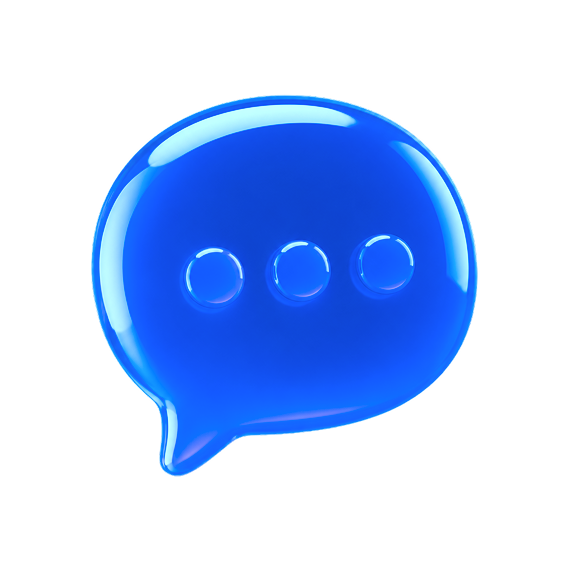
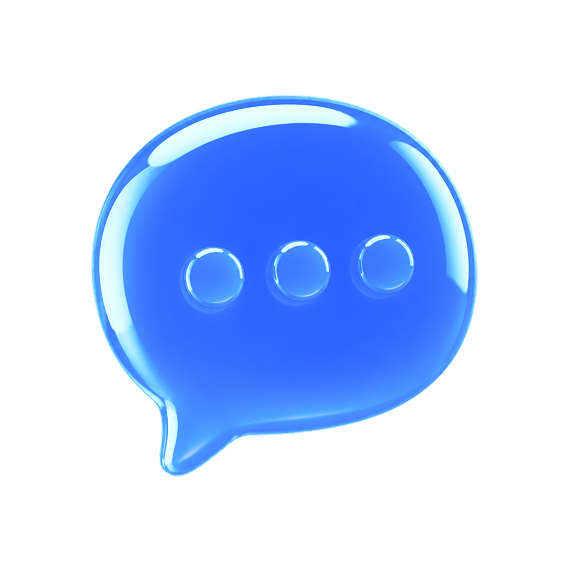
Update talk UI homepage content

diff --git a/talk-ui/homepage.css b/talk-ui/homepage.css
@@ -78,7 +78,8 @@ button {
 }
 
 .app-shell[data-theme="dark"] .sentiment-summary {
-  color: var(--wise-sys-color-chart-teal);
+  color: var(--wise-sys-color-on-action-secondary);
+  background: var(--wise-sys-color-action-secondary);
 }
 
 .app-shell[data-theme="dark"] .sentiment-link,
@@ -209,6 +210,11 @@ button {
   flex: 0 0 auto;
 }
 
+.home-header .icon-action {
+  color: var(--wise-sys-color-action-primary);
+  background: color-mix(in srgb, var(--wise-sys-color-action-primary) 12%, var(--wise-sys-color-surface));
+}
+
 .icon-action {
   display: grid;
   width: var(--wise-sys-size-control-sm);
@@ -287,7 +293,7 @@ button {
 .sentiment-header {
   display: flex;
   min-height: var(--wise-sys-size-control-lg);
-  align-items: center;
+  align-items: flex-start;
   justify-content: space-between;
   gap: var(--wise-sys-space-inline-md);
   padding: var(--wise-sys-space-inset-md) var(--wise-sys-space-inset-md) var(--wise-sys-space-inline-sm);
@@ -305,7 +311,7 @@ button {
   min-width: var(--wise-ref-space-0);
   flex-direction: column;
   align-items: flex-start;
-  gap: var(--wise-sys-space-inline-sm);
+  gap: var(--wise-ref-space-3);
 }
 
 .sentiment-link,
@@ -322,7 +328,12 @@ button {
 }
 
 .sentiment-summary {
-  color: var(--wise-sys-color-chart-teal);
+  display: inline-flex;
+  width: fit-content;
+  padding: var(--wise-ref-space-4) var(--wise-ref-space-8);
+  border-radius: var(--wise-sys-radius-control);
+  color: var(--wise-sys-color-on-action-secondary);
+  background: var(--wise-sys-color-action-secondary);
   font-size: var(--wise-sys-type-label-sm-size);
   font-weight: var(--wise-sys-font-weight-label);
   line-height: var(--wise-sys-type-label-sm-line-height);
@@ -334,7 +345,7 @@ button {
   padding: var(--wise-ref-space-4) var(--wise-sys-space-inline-sm) var(--wise-ref-space-4) 6px;
   border: none;
   border-radius: var(--wise-sys-radius-control);
-  color: var(--wise-sys-color-on-surface-muted);
+  color: rgba(74, 77, 72, 0.6);
   background: color-mix(in srgb, var(--wise-sys-color-surface) 48%, transparent);
   font-size: var(--wise-ref-font-size-14);
   font-weight: var(--wise-sys-font-weight-label);
@@ -1023,6 +1034,17 @@ button {
   margin-block-end: calc(var(--wise-ref-space-0) - var(--wise-ref-space-12) - var(--wise-ref-space-3));
 }
 
+.feed-section .section-heading .eyebrow,
+.feed-section .tag,
+.feed-section .feed-author .icon-action {
+  color: var(--wise-sys-color-action-primary);
+}
+
+.feed-section .tag,
+.feed-section .feed-author .icon-action {
+  background: color-mix(in srgb, var(--wise-sys-color-action-primary) 12%, var(--wise-sys-color-surface));
+}
+
 .shortcut-section {
   padding-block: var(--wise-sys-space-stack-xs) var(--wise-ref-space-0);
 }
@@ -1108,9 +1130,9 @@ button {
 
 .shortcut-label {
   display: block;
-  font-size: var(--wise-sys-type-body-sm-size);
+  font-size: var(--wise-sys-type-label-sm-size);
   font-weight: var(--wise-sys-font-weight-label);
-  line-height: var(--wise-sys-type-body-sm-line-height);
+  line-height: var(--wise-sys-type-label-sm-line-height);
 }
 
 .app-shell.is-sheet-open {